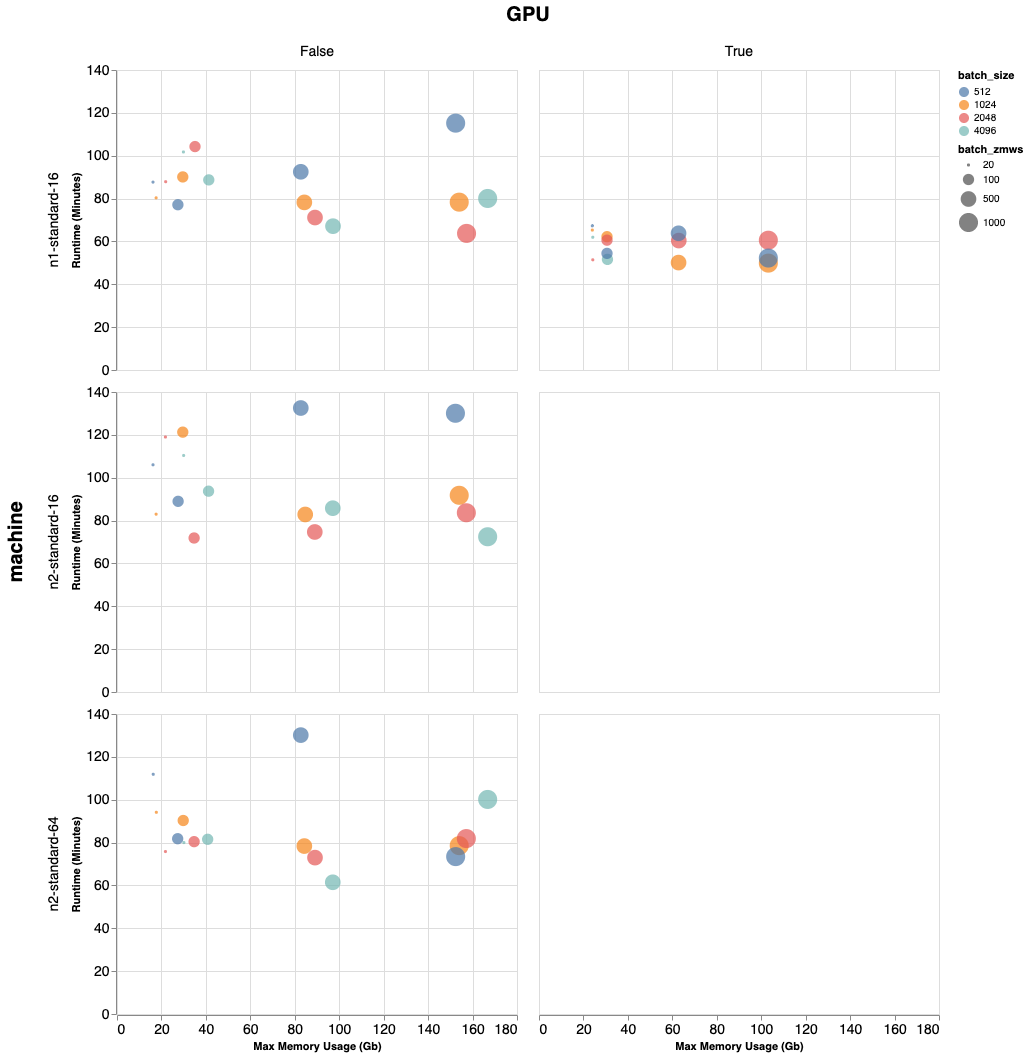
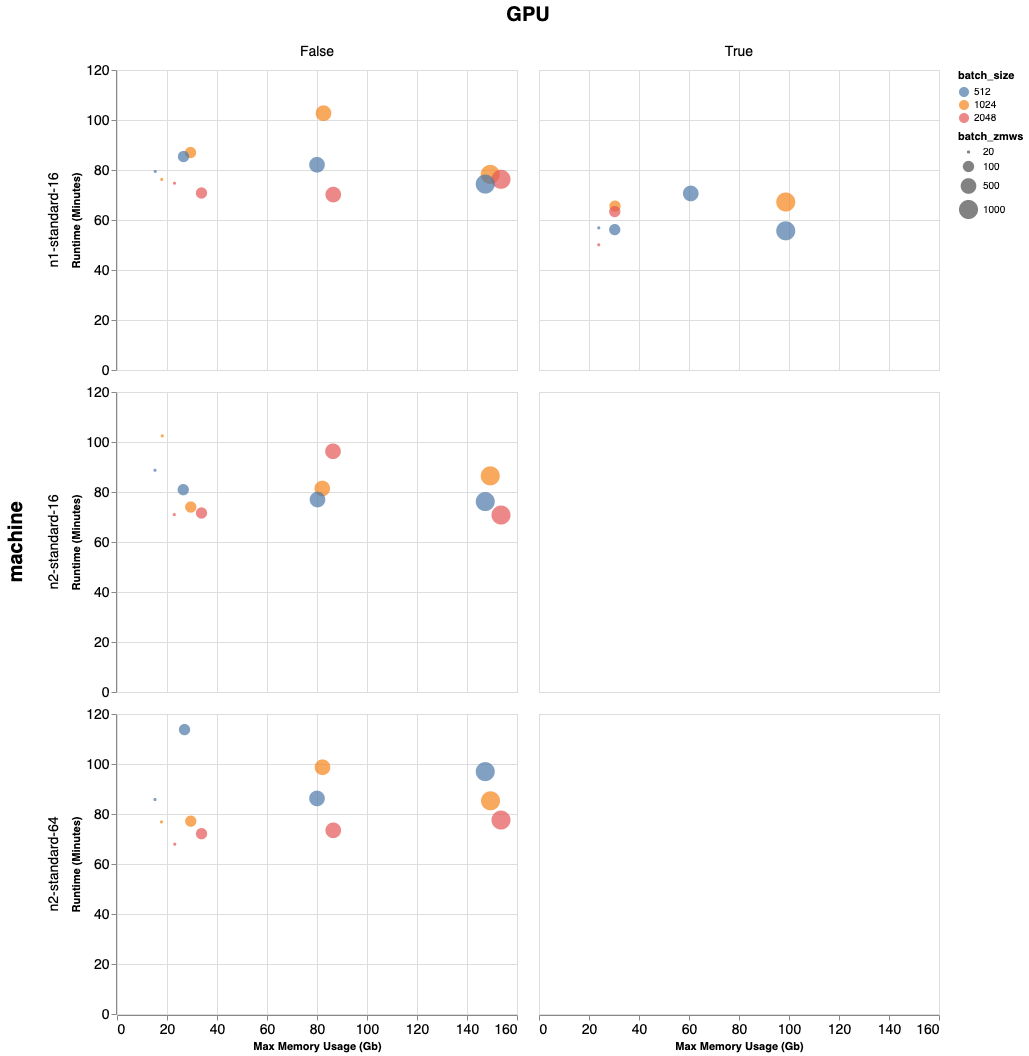
Update Runtime metrics page.
PiperOrigin-RevId: 478098812

diff --git a/docs/runtime_metrics.md b/docs/runtime_metrics.md
@@ -31,7 +31,7 @@ performance further and allow for more predictable runtimes based on
 DeepConsensus settings.
 
 We only show GPU runtimes for `n1-standard-16`. Note that we observe job
-failures when using GPU with larger `batch_size` (>=4096) and with larger values
+failures when using GPU with larger `batch_size` (>=2048) and with larger values
 of `batch_zmws` (500, 1000).
 
 ## Runtime Test Configurations
